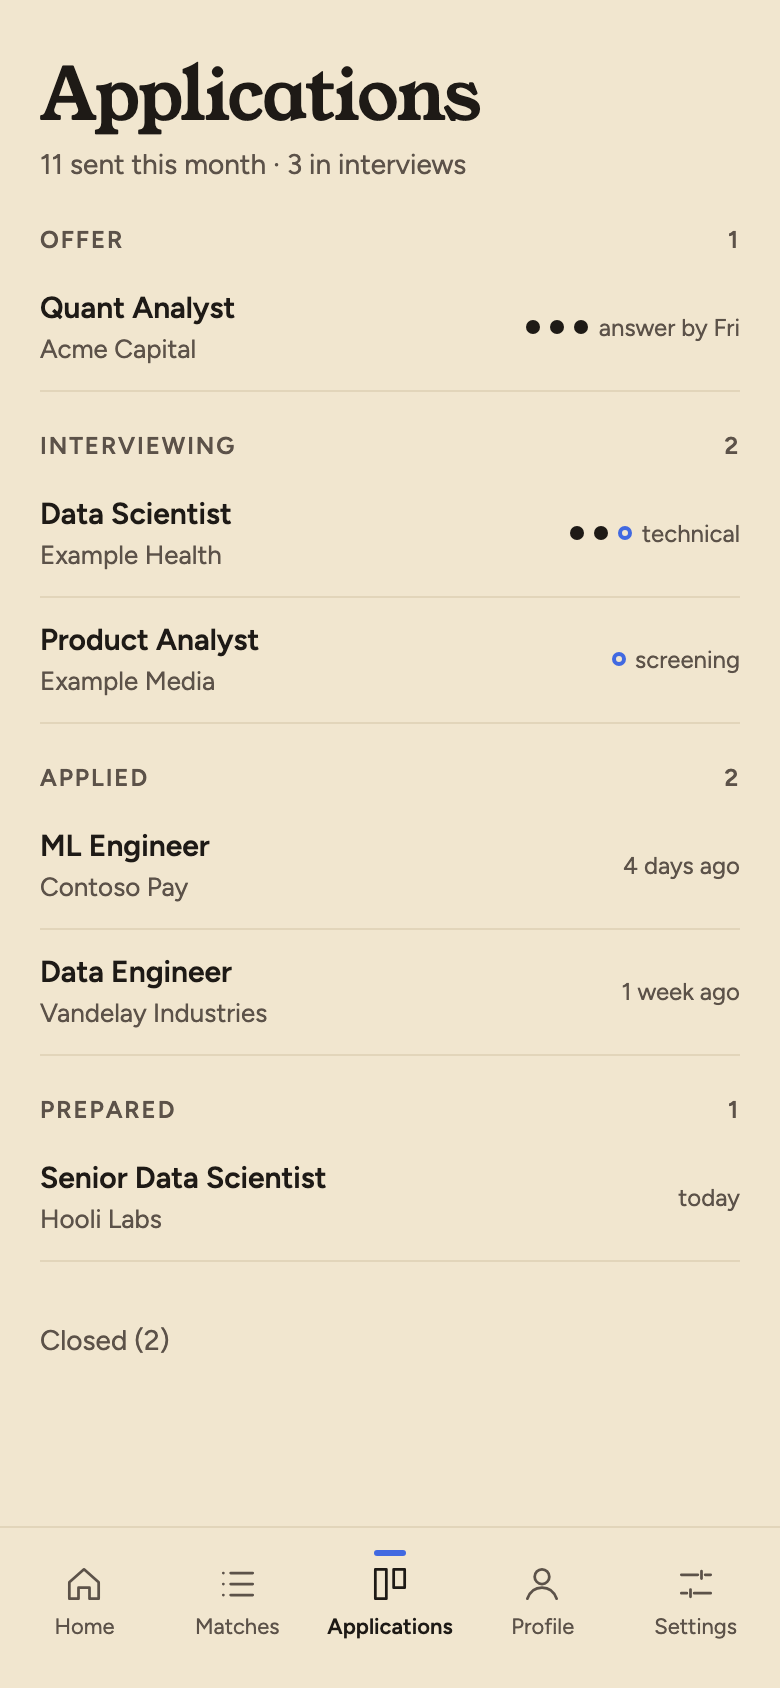
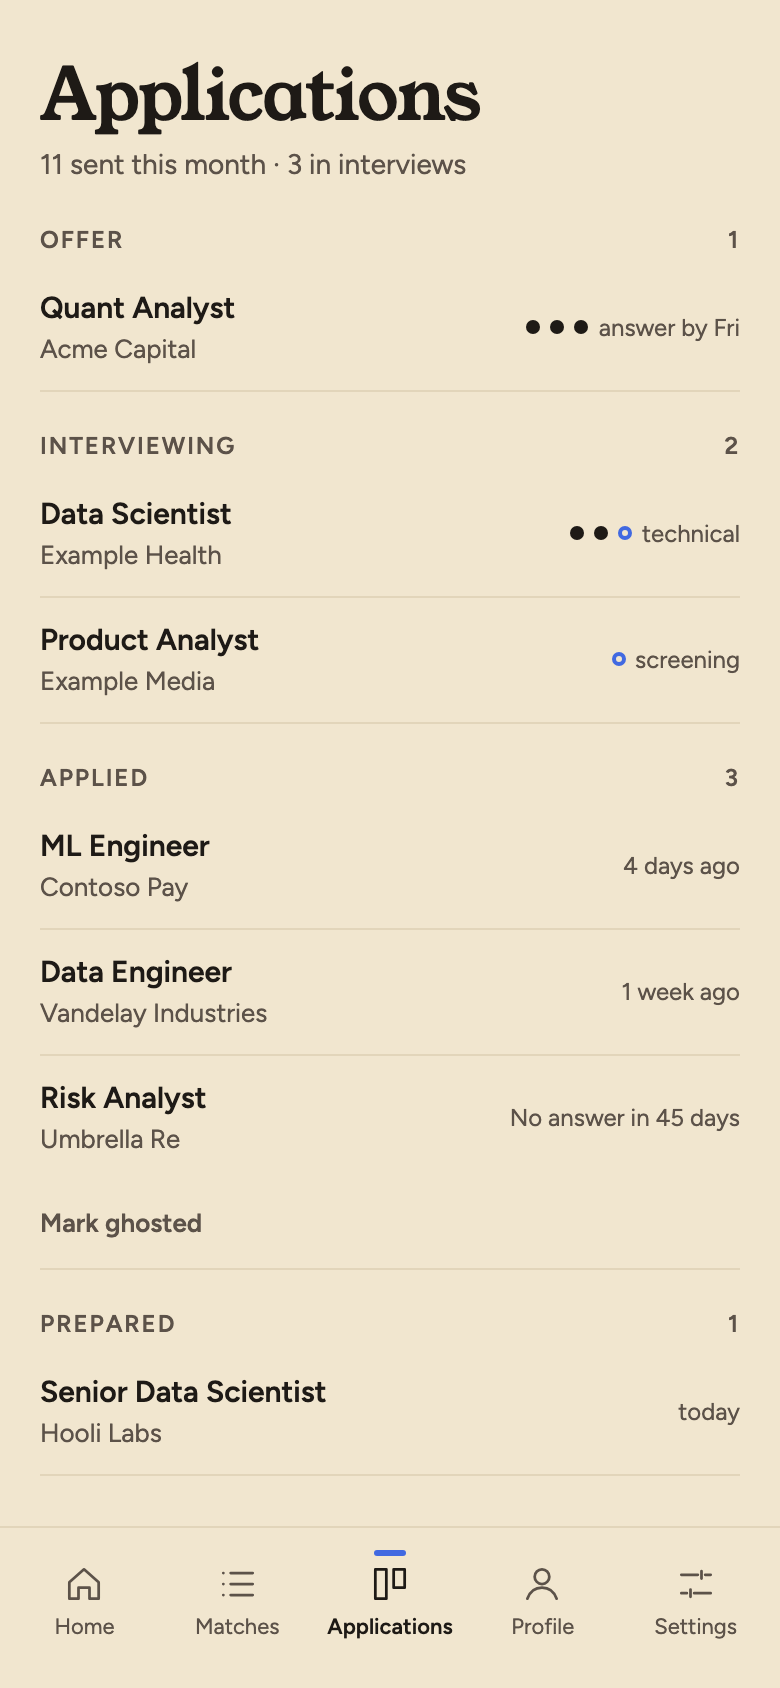
docs: show the no-answer card in the Applications mockups (closes #93)
One silent Applied card ("No answer in 45 days", a quiet "Mark ghosted"
under it) in the desktop and phone mockups; screens re-rendered.

Claude-Session: https://claude.ai/code/session_01X7AZRFqExrr4sA3BdgVa7f

diff --git a/docs/design/mockups/Applications.dc.html b/docs/design/mockups/Applications.dc.html
@@ -29,7 +29,8 @@ button{font:inherit}
         <section style="display: flex; flex-direction: column; gap: 10px">
           <h2 style="margin: 0 0 4px; display: flex; justify-content: space-between; align-items: baseline; font-size: 12px; letter-spacing: 0.08em; text-transform: uppercase; color: #5C5249; font-weight: 600"><span>{{col.name}}</span><span style="font-variant-numeric: tabular-nums">{{col.n}}</span></h2>
           <sc-for list="{{col.cards}}" as="c" hint-placeholder-count="2">
-            <button type="button" style="text-align: left; border: 1px solid #E2D5BA; border-radius: 10px; background: #F8F1E2; color: #1E1A16; padding: 14px 16px; display: flex; flex-direction: column; gap: 4px">
+            <div style="display: flex; flex-direction: column; align-items: flex-start; gap: 4px">
+            <button type="button" style="width: 100%; text-align: left; border: 1px solid #E2D5BA; border-radius: 10px; background: #F8F1E2; color: #1E1A16; padding: 14px 16px; display: flex; flex-direction: column; gap: 4px">
               <span style="font-weight: 600">{{c.title}}</span>
               <span style="color: #5C5249; font-size: 13px">{{c.company}}</span>
               <span style="display: flex; align-items: center; gap: 6px; margin-top: 8px">
@@ -39,6 +40,8 @@ button{font:inherit}
                 <span style="color: #5C5249; font-size: 12px">{{c.note}}</span>
               </span>
             </button>
+            <sc-if value="{{c.silent}}" hint-placeholder-val="{{ false }}"><button type="button" style="min-height: 44px; padding: 0 4px; border: 0; background: none; color: #5C5249; font-size: 13px; font-weight: 600; text-align: left">Mark ghosted</button></sc-if>
+            </div>
           </sc-for>
         </section>
       </sc-for>
@@ -51,10 +54,10 @@ class Component extends DCLogic {
   renderVals() {
     const passed = 'width: 8px; height: 8px; border-radius: 4px; background: #1E1A16;';
     const pending = 'width: 8px; height: 8px; box-sizing: border-box; border-radius: 4px; border: 2px solid #4169E1;';
-    const card = (title, company, note, rounds) => ({ title, company, note, rounds: rounds || [] });
+    const card = (title, company, note, rounds) => ({ title, company, note, rounds: rounds || [], silent: false });
     const cols = [
       { name: 'Prepared', cards: [card('Senior Data Scientist', 'Hooli Labs', 'today'), card('Analytics Lead', 'Initech Insurance', 'yesterday')] },
-      { name: 'Applied', cards: [card('ML Engineer', 'Contoso Pay', '4 days ago'), card('Data Engineer', 'Vandelay Industries', '1 week ago'), card('Forecasting Specialist', 'Globex Energy', '2 weeks ago')] },
+      { name: 'Applied', cards: [card('ML Engineer', 'Contoso Pay', '4 days ago'), card('Data Engineer', 'Vandelay Industries', '1 week ago'), card('Forecasting Specialist', 'Globex Energy', '2 weeks ago'), { ...card('Risk Analyst', 'Umbrella Re', 'No answer in 45 days'), silent: true }] },
       { name: 'Interviewing', cards: [card('Data Scientist', 'Example Health', 'technical next', [passed, passed, pending]), card('Product Analyst', 'Example Media', 'screening', [pending])] },
       { name: 'Offer', cards: [card('Quant Analyst', 'Acme Capital', 'answer by Fri', [passed, passed, passed])] },
       { name: 'Closed', cards: [card('BI Developer', 'Example Logistics', 'rejected'), card('Data Lead', 'Example Bank', 'ghosted')] }

diff --git a/docs/design/mockups/PhoneApplications.dc.html b/docs/design/mockups/PhoneApplications.dc.html
@@ -25,7 +25,7 @@ button{font:inherit}
         <h2 style="margin: 0 0 4px; display: flex; justify-content: space-between; font-size: 12px; letter-spacing: 0.08em; text-transform: uppercase; color: #5C5249; font-weight: 600"><span>{{g.name}}</span><span>{{g.n}}</span></h2>
         <ul style="list-style: none; margin: 0; padding: 0">
           <sc-for list="{{g.items}}" as="c" hint-placeholder-count="2">
-            <li style="border-bottom: 1px solid #E2D5BA">
+            <li style="border-bottom: 1px solid #E2D5BA; display: flex; flex-direction: column; align-items: flex-start">
               <button type="button" style="width: 100%; min-height: 60px; display: flex; justify-content: space-between; align-items: center; gap: 12px; padding: 10px 0; border: 0; background: transparent; color: #1E1A16; text-align: left">
                 <span style="display: flex; flex-direction: column">
                   <span style="font-weight: 600; font-size: 15px">{{c.title}}</span>
@@ -36,6 +36,7 @@ button{font:inherit}
                   <span>{{c.note}}</span>
                 </span>
               </button>
+              <sc-if value="{{c.silent}}" hint-placeholder-val="{{ false }}"><button type="button" style="min-height: 44px; padding: 0; border: 0; background: none; color: #5C5249; font-size: 13px; font-weight: 600; text-align: left">Mark ghosted</button></sc-if>
             </li>
           </sc-for>
         </ul>
@@ -59,11 +60,11 @@ class Component extends DCLogic {
   renderVals() {
     const passed = 'width: 7px; height: 7px; border-radius: 4px; background: #1E1A16;';
     const pending = 'width: 7px; height: 7px; box-sizing: border-box; border-radius: 4px; border: 2px solid #4169E1;';
-    const c = (title, company, note, rounds) => ({ title, company, note, rounds: rounds || [] });
+    const c = (title, company, note, rounds) => ({ title, company, note, rounds: rounds || [], silent: false });
     const groups = [
       { name: 'Offer', items: [c('Quant Analyst', 'Acme Capital', 'answer by Fri', [passed, passed, passed])] },
       { name: 'Interviewing', items: [c('Data Scientist', 'Example Health', 'technical', [passed, passed, pending]), c('Product Analyst', 'Example Media', 'screening', [pending])] },
-      { name: 'Applied', items: [c('ML Engineer', 'Contoso Pay', '4 days ago'), c('Data Engineer', 'Vandelay Industries', '1 week ago')] },
+      { name: 'Applied', items: [c('ML Engineer', 'Contoso Pay', '4 days ago'), c('Data Engineer', 'Vandelay Industries', '1 week ago'), { ...c('Risk Analyst', 'Umbrella Re', 'No answer in 45 days'), silent: true }] },
       { name: 'Prepared', items: [c('Senior Data Scientist', 'Hooli Labs', 'today')] }
     ].map(g => ({ ...g, n: String(g.items.length) }));
     const icons = {
